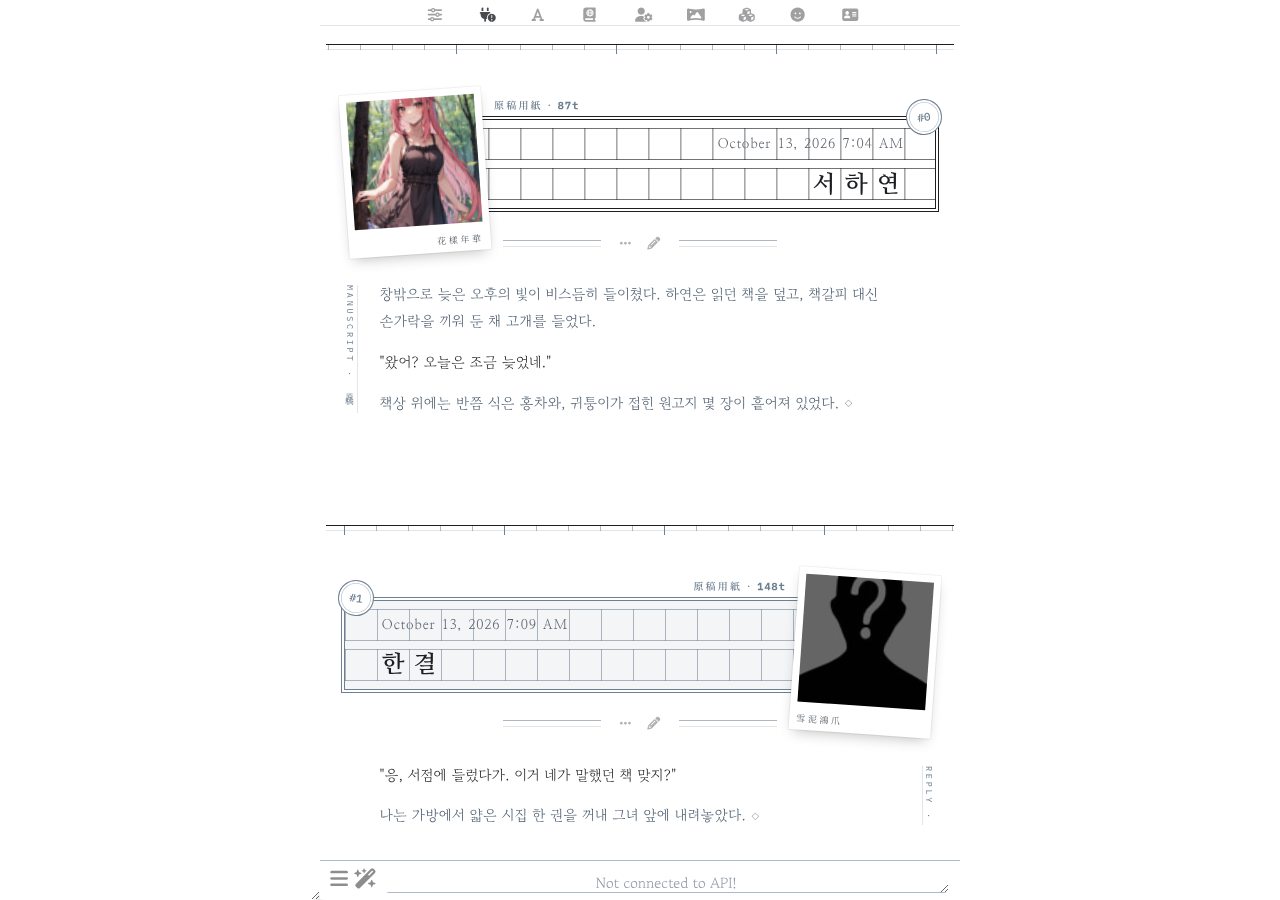
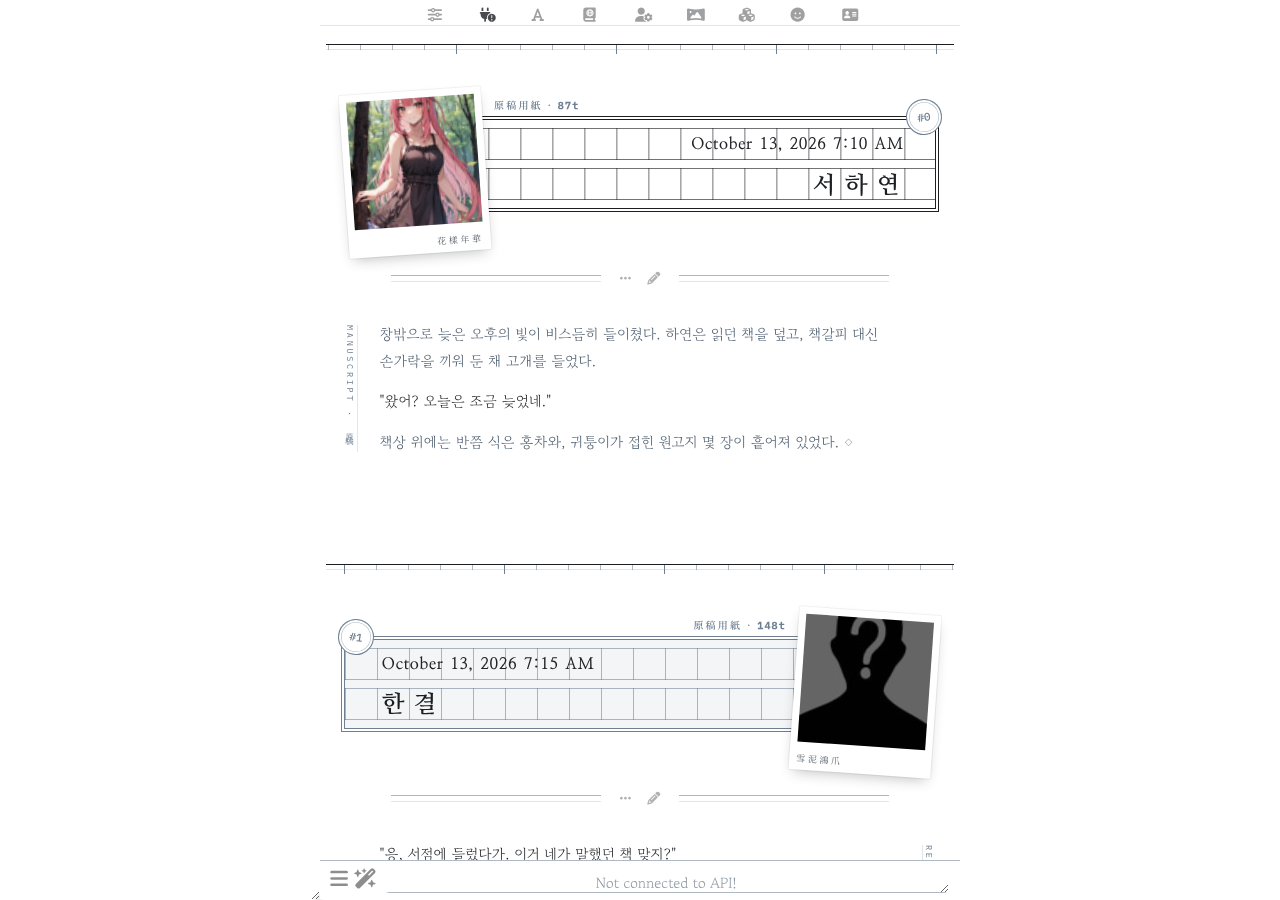
Wongoji: Myeongjo Latin in names, bolder date, buttons clear of polaroid
- Drop the half-cell Latin face; names are set entirely in Nanum
  Myeongjo (Hangul still measured centred in cells; spaces one cell)
- Date larger, bold and in body ink for legibility
- Message buttons pushed below a two-row band's polaroid overhang and
  given full-width rules again

Claude-Session: https://claude.ai/code/session_01VxNZVdN99GR1yFwUVAN4mT

diff --git a/src/wongoji.css b/src/wongoji.css
@@ -1,19 +1,5 @@
 @import url('https://fonts.googleapis.com/css2?family=Gowun+Batang:wght@400;700&family=Nanum+Myeongjo:wght@400;700;800&family=Noto+Serif+KR:wght@400;600&family=IBM+Plex+Mono:wght@400;500&display=swap');
 
-/* 원고지 칸 글꼴 — 한글은 나눔명조(한 칸), 영문·숫자·문장부호·띄어쓰기는
-   크기를 줄인 고정폭 명조(Xanh Mono, 반 칸). 원고지 규칙대로 영문·숫자는 한 칸에 두 자. */
-@font-face {
-    font-family: 'WG Cell Latin';
-    src: url(https://fonts.gstatic.com/s/xanhmono/v19/R70YjykVmvKCep-vWhSonwqR.woff2) format('woff2');
-    unicode-range: U+0000-00FF, U+0131, U+0152-0153, U+02BB-02BC, U+02C6, U+02DA, U+02DC, U+2000-206F, U+20AC, U+2122;
-    size-adjust: 56.667%;
-    /* 줄의 기준선은 이 글꼴이 정하므로, 세로 치수를 나눔명조와 같게 맞춥니다 */
-    ascent-override: 141.18%;
-    descent-override: 35.29%;
-    line-gap-override: 0%;
-    font-display: swap;
-}
-
 /* ==========================================================================
    원고지 · Wongoji — SillyTavern theme
    흰 종이, 먹, 그리고 청회색으로 인쇄된 원고지 칸.
@@ -197,11 +183,10 @@ body {
     --wg-pol-h: calc(var(--wg-photo) + var(--wg-frame) + var(--wg-chin));
     --wg-band-near: calc(var(--wg-side) + var(--wg-pol-w) * 0.42);
     --wg-band-far: var(--wg-side);
-    /* 칸 글꼴: 글자 크기 = 칸의 75%.
-       한글 0.95em + 자간 = 한 칸, 영문·숫자(0.283em) + 자간 = 반 칸 */
+    /* 칸 글꼴: 나눔명조, 글자 크기 = 칸의 75%. 한글 0.95em + 자간 = 한 칸 */
     --wg-cell-font: calc(var(--wg-cell) * 0.75);
     --wg-track: calc(var(--wg-cell) * 0.2875);
-    --wg-cell-family: 'WG Cell Latin', 'Nanum Myeongjo', 'Noto Serif KR', serif;
+    --wg-cell-family: 'Nanum Myeongjo', 'Noto Serif KR', serif;
     --wg-band-bg: var(--wg-paper);
     /* 캐릭터 원고지는 먹색 선 */
     --wg-band-frame: var(--wg-ink);
@@ -342,11 +327,11 @@ body {
     order: -1;
     /* 날짜는 칸에 맞추지 않고 명조로 촘촘하게 */
     font-family: var(--wg-title) !important;
-    font-size: calc(var(--wg-cell) * 0.42) !important;
-    font-weight: 400;
-    letter-spacing: 0.06em !important;
-    word-spacing: 0.12em;
-    color: var(--wg-ink-soft);
+    font-size: calc(var(--wg-cell) * 0.5) !important;
+    font-weight: 700;
+    letter-spacing: 0.04em !important;
+    word-spacing: 0.1em;
+    color: var(--wg-ink-body);
     padding-right: calc(var(--wg-cell) * 0.15) !important;
 }
 
@@ -428,7 +413,7 @@ body.no-tokenCount #chat .mes .ch_name::after {
 
 /* 원고지 띠 — 날짜와 이름을 담은 상자 자체에 칸을 그립니다.
    글이 길면 줄이 늘고, 띠도 함께 늘어납니다.
-   한글은 한 칸, 영문·숫자·띄어쓰기는 반 칸 */
+   한글은 한 칸에 한 자, 띄어쓰기도 한 칸 */
 #chat .mes .mes_block,
 #chat .mes .ch_name,
 #chat .mes .ch_name > .flex-container {
@@ -496,11 +481,11 @@ body.no-tokenCount #chat .mes .ch_name::after {
 
 #chat .mes .name_text {
     position: relative;
-    /* 명조 한글의 먹 중심이 줄 가운데보다 위에 있어 그만큼 내립니다 */
-    top: 0.035em;
+    /* 명조 한글의 먹 중심이 줄 가운데보다 0.055em 위에 있어 그만큼 내립니다 */
+    top: 0.055em;
     font-weight: 700;
     /* 띄어쓰기도 한 칸 */
-    word-spacing: calc(var(--wg-cell) / 2);
+    word-spacing: calc(var(--wg-cell) - var(--wg-cell-font) * 0.27 - var(--wg-track));
     color: var(--wg-ink);
 }
 
@@ -530,8 +515,8 @@ body.no-tokenCount #chat .mes .ch_name::after {
     gap: 2px;
     grid-row: 2;
     grid-column: 1 / -1;
-    /* 가운데 정렬. 폴라로이드가 내려와도 겹치지 않게 양쪽을 똑같이 비웁니다 */
-    margin: 0 calc(var(--wg-pol-w) + 6px) 18px;
+    /* 가운데 정렬. 두 줄짜리 띠 아래로 늘어진 폴라로이드보다 더 아래에 둡니다 */
+    margin: max(6px, calc((var(--wg-pol-h) - var(--wg-pitch) * 2 - var(--wg-gap)) / 2 - 2px)) var(--wg-measure) 22px;
     min-height: 36px;
     overflow: visible;
 }
@@ -1195,6 +1180,5 @@ h1, h2, h3, h4, h5,
 /* 아바타를 숨기면 구분 줄도 폴라로이드 자리를 비우지 않습니다 */
 body.hideChatAvatars #chat .mes .mes_buttons,
 body.hideChatAvatars #chat .mes .mes_edit_buttons {
-    margin-left: 46px;
-    margin-right: 46px;
+    margin-top: 6px;
 }

diff --git a/README.md b/README.md
@@ -10,8 +10,8 @@ SillyTavern UI 테마입니다. 흰 바탕과 먹, 청회색으로 인쇄된 원
 
 - **구분선**: 메시지 사이에는 원고지 낱장의 머리처럼 칸마다 눈금을 새긴 자가 놓입니다. 다섯 칸마다 긴 눈금이 들어갑니다.
 - **원고지 띠**: 메시지마다 정사각 칸과 줄 사이 틈, 이중 테두리로 된 원고지가 붙습니다. 캐릭터 원고지는 먹색 선, 유저 원고지는 청회색 선입니다.
-  - 윗줄에는 날짜를 명조로 촘촘하게, 아랫줄에는 이름을 적고, 끝 한 칸은 비웁니다.
-  - 이름은 원고지 쓰기 규칙대로 칸 정중앙에 적습니다. 한글은 한 칸에 한 자, 영문은 명조풍 고정폭 글꼴(Xanh Mono)로 한 칸에 두 자, 띄어쓰기는 한 칸입니다.
+  - 윗줄에는 날짜를 굵은 명조로, 아랫줄에는 이름을 적고, 끝 한 칸은 비웁니다.
+  - 이름은 나눔명조로 적습니다. 한글은 한 칸에 한 자씩 칸 정중앙에 들어가고, 띄어쓰기도 한 칸입니다. 영문은 글자 폭이 제각각이라 칸선에 정확히 맞지는 않습니다.
   - 이름이나 날짜가 길면 다음 줄로 넘어가고, 띠도 그만큼 늘어납니다. 폴라로이드는 늘어난 띠의 세로 가운데에 놓입니다.
   - 띠 위 여백에는 `原稿用紙 · 412t`처럼 메시지의 토큰 수가 인쇄됩니다. 토큰 수 표시(Message Token Count)를 끄면 `原稿用紙`만 남습니다.
   - 띠 모서리에는 채팅 번호가 원형 도장으로 찍힙니다.
@@ -22,7 +22,7 @@ SillyTavern UI 테마입니다. 흰 바탕과 먹, 청회색으로 인쇄된 원
 - **색**: 화면 요소는 흑백과 청회색만 씁니다(아바타 사진은 원래 색 그대로). 유저 원고지는 아주 옅은 청회색이고, 그림자와 블러는 없습니다.
 - **상단 메뉴 · 입력창**: 아이콘을 작게 줄여 가운데로 모으고, 연한 선 하나로만 구분했습니다. 모바일에서도 입력창 아이콘이 PC처럼 한 줄로 놓입니다.
 
-서체(Google Fonts): 고운바탕(본문), 나눔명조(이름·날짜·제목·인용), Xanh Mono(이름의 영문), Noto Serif KR(한자 글귀), IBM Plex Mono(번호·토큰 수).
+서체(Google Fonts): 고운바탕(본문), 나눔명조(이름·날짜·제목·인용), Noto Serif KR(한자 글귀), IBM Plex Mono(번호·토큰 수).
 
 ## 설치
 
